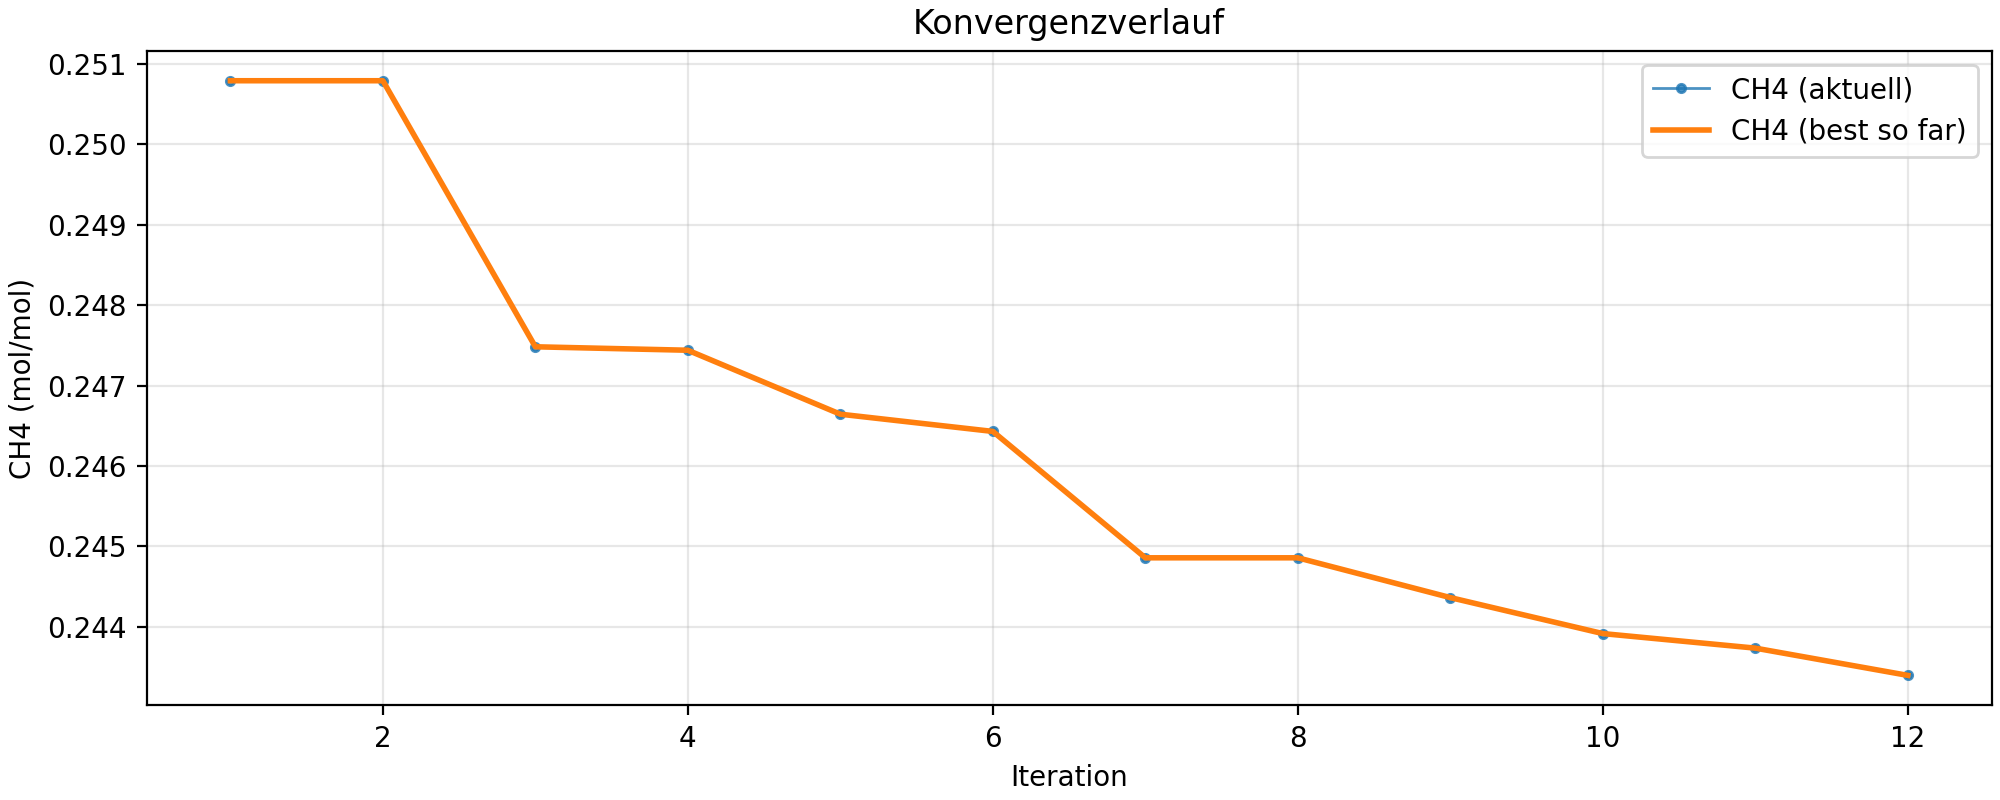
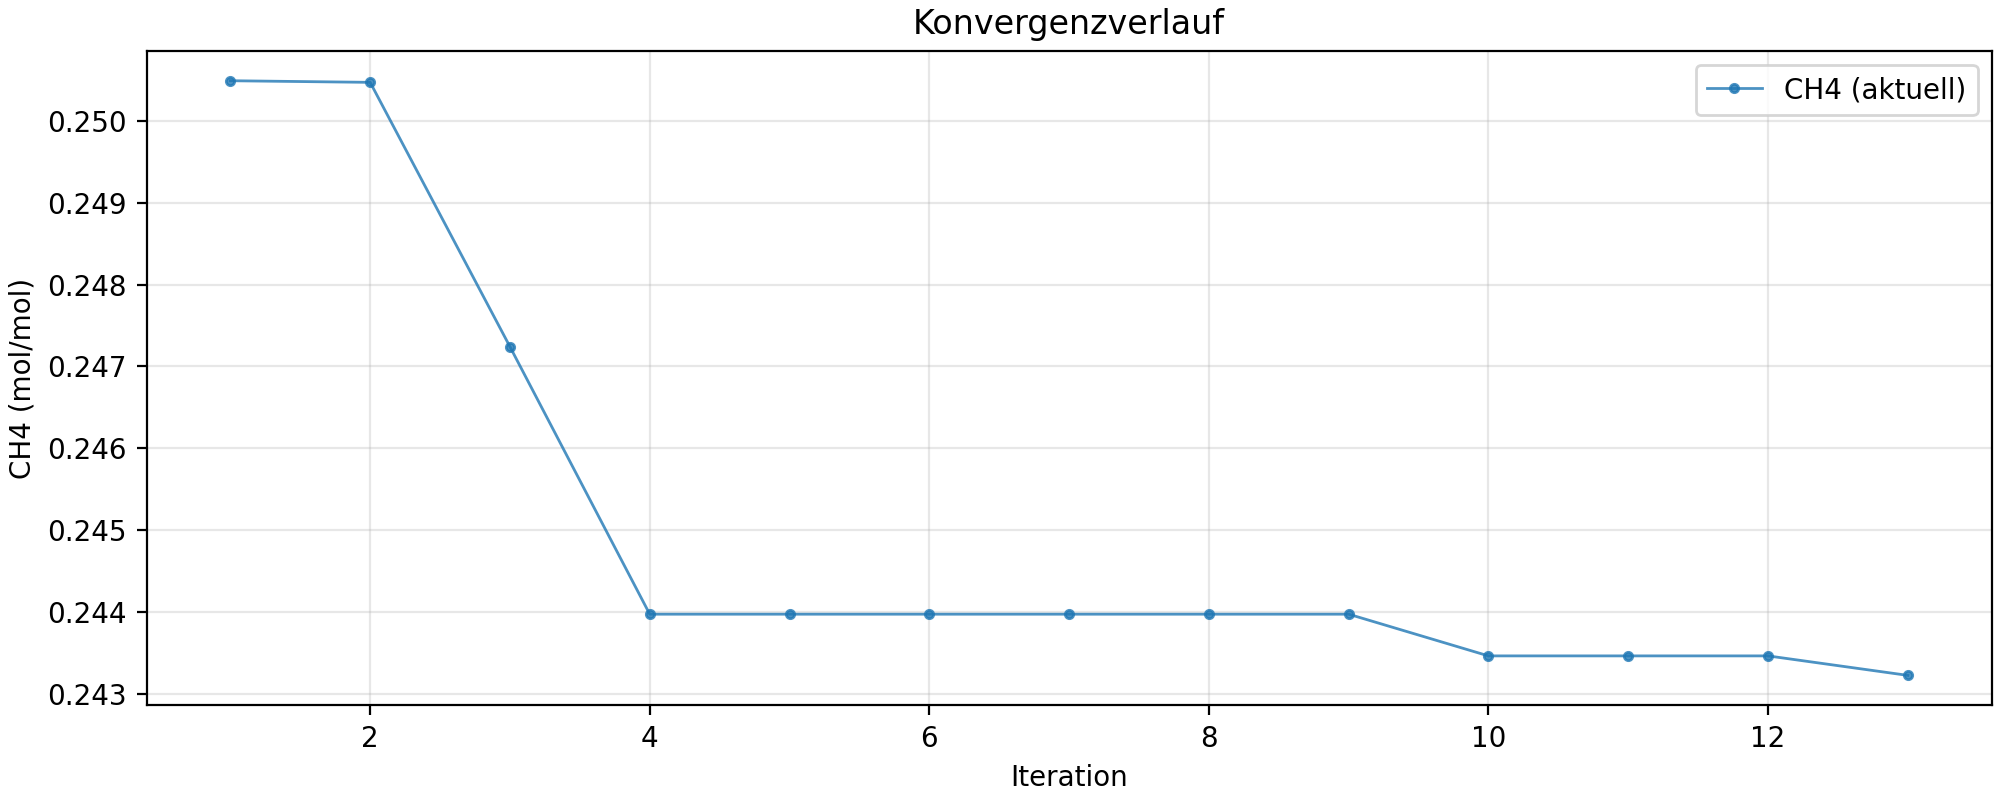
Plots verbessert

diff --git a/Belegaufgabe/Auswertung_einkriteriell/Auswertung_Einkriteriell.py b/Belegaufgabe/Auswertung_einkriteriell/Auswertung_Einkriteriell.py
@@ -23,8 +23,8 @@ def plot_history(csv_path=CSV):
     )
 
     # CH4
-    ax[0].plot(it, ch4, marker="o", markersize=3, linewidth=1, alpha=0.8, label="CH4 (aktuell)")
-    ax[0].plot(it, ch4_best, linewidth=2, label="CH4 (best so far)")
+    ax[0].plot(it, ch4, marker="o", markersize=3, linewidth=1, alpha=0.8,color="red")
+    #ax[0].plot(it, ch4_best, linewidth=2, label="CH4 (best so far)")
     ax[0].set_ylabel("CH4 (mol/mol)")
     ax[0].grid(True, which="both", alpha=0.3)
     ax[0].legend(loc="upper right")
@@ -50,32 +50,15 @@ def plot_history(csv_path=CSV):
     for a in ax:
         a.axvline(it[best_idx], linewidth=1, alpha=0.4)
 
-    fig.suptitle("Optimierungsverlauf (Differential Evolution)", y=1.01)
+    fig.tight_layout()
+
+    #fig.suptitle("Optimierungsverlauf (Differential Evolution)", y=1.01)
     fig.savefig("img/plot_cstr_overview.png", dpi=200)
-
-    # --------- Figure 2: Pareto-Feeling: CH4 vs Parameter (scatter) ----------
-    fig2, ax2 = plt.subplots(1, 3, figsize=(12, 3.6), constrained_layout=True)
-
-    ax2[0].scatter(d, ch4, s=18, alpha=0.7)
-    ax2[0].set_xlabel("d (cm)")
-    ax2[0].set_ylabel("CH4 (mol/mol)")
-    ax2[0].grid(True, alpha=0.3)
-
-    ax2[1].scatter(av, ch4, s=18, alpha=0.7)
-    ax2[1].set_xlabel("A/V (1/cm)")
-    ax2[1].grid(True, alpha=0.3)
-
-    ax2[2].scatter(eps, ch4, s=18, alpha=0.7)
-    ax2[2].set_xlabel("Porosität (-)")
-    ax2[2].grid(True, alpha=0.3)
-
-    fig2.suptitle("Zusammenhang: Parameter → CH4", y=1.03)
-    fig2.savefig("img/plot_cstr_scatter.png", dpi=200)
 
     # --------- Optional: nur CH4 groß (für Bericht) ----------
     fig3, ax3 = plt.subplots(figsize=(10, 4), constrained_layout=True)
     ax3.plot(it, ch4, marker="o", markersize=3, linewidth=1, alpha=0.8, label="CH4 (aktuell)")
-    ax3.plot(it, ch4_best, linewidth=2, label="CH4 (best so far)")
+    #ax3.plot(it, ch4_best, linewidth=2, label="CH4 (best so far)")
     ax3.set_xlabel("Iteration")
     ax3.set_ylabel("CH4 (mol/mol)")
     ax3.grid(True, which="both", alpha=0.3)
@@ -83,6 +66,36 @@ def plot_history(csv_path=CSV):
     ax3.set_title("Konvergenzverlauf")
     fig3.savefig("img/plot_cstr_ch4.png", dpi=200)
 
+    plt.show()
+    # -------- Plot alle Zusammen ----------
+    fig, ax1 = plt.subplots(figsize=(8, 5))
+
+    # ---- linke y-Achse ----
+    l1, = ax1.plot(it, ch4, marker="o", markersize=3, linewidth=1,
+                   alpha=0.8, label="CH4 (aktuell)")
+    l2, = ax1.plot(it, d, marker="o", markersize=3, linewidth=1,
+                   alpha=0.8, label="d (aktuell)")
+    l3, = ax1.plot(it, eps, marker="o", markersize=3, linewidth=1,
+                   alpha=0.8, label="eps (aktuell)")
+
+    ax1.set_xlabel("Iteration")
+    ax1.set_ylabel("CH4 / d / eps")
+    ax1.grid(True, which="both", alpha=0.3)
+
+    # ---- rechte y-Achse für av ----
+    ax2 = ax1.twinx()
+
+    l4, = ax2.plot(it, av, linestyle="--", linewidth=2,
+                   label="av (aktuell)")
+
+    ax2.set_ylabel("av")
+
+    # ---- gemeinsame Legende sauber bauen ----
+    lines = [l1, l2, l3, l4]
+    labels = [l.get_label() for l in lines]
+    ax1.legend(lines, labels, loc="best")
+
+    plt.tight_layout()
     plt.show()
 
 if __name__ == "__main__":

diff --git a/Belegaufgabe/Auswertung/Auswertung_Multikriteriell.py b/Belegaufgabe/Auswertung/Auswertung_Multikriteriell.py
@@ -55,7 +55,7 @@ ax.legend(loc="upper left")
 # === Zoom-Inset ===
 axins = inset_axes(
     ax,
-    width="50%",      # Größe des Zoom-Fensters
+    width="35%",      # Größe des Zoom-Fensters
     height="70%",
     loc="upper right", # Position im Plot
     borderpad=1
@@ -93,5 +93,5 @@ axins.grid()
 # Verbindung Hauptplot ↔ Zoom
 mark_inset(ax, axins, loc1=2, loc2=4, fc="none", ec="0.4")
 
-#plt.show()
-plt.savefig("img/Pareto_front_zoom", dpi=500)
+plt.show()
+#plt.savefig("img/Pareto_front_zoom", dpi=500)

diff --git a/Belegaufgabe/Simulation/Kaskade_Klasse.py b/Belegaufgabe/Simulation/Kaskade_Klasse.py
@@ -223,3 +223,4 @@ class CSTRCascadeModel:
         A_cs = (np.pi / 4.0) * (diameter_cm * cm) ** 2
         V_bed = A_cs * self.length
         return (1.0 - porosity) * V_bed
+#test
